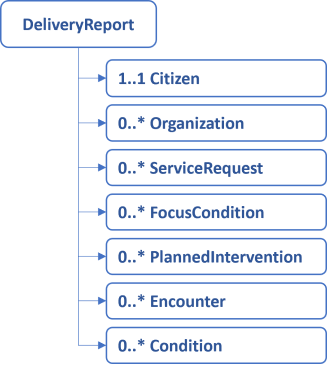
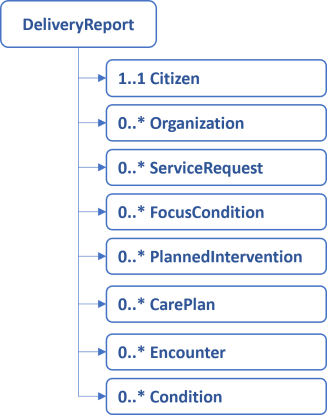
Main page corected. Details about date-precision, and criteria for new care plans added to documentation

Changed region(s): [[0.0, 0.03, 1.0, 1.0], [0.4587, 0.0, 0.4893, 0.03], [0.0, 0.0, 0.0306, 0.03]]

diff --git a/input/pagecontent/index.md b/input/pagecontent/index.md
@@ -57,12 +57,12 @@ This model holds a diagnosiscode, as it is reported to the municipality as part 
 ##### Attributes
 * A diagnosis code
 * A reference to the citizen
-* A FHIR status attribute
+* Two FHIR status attributes
 
 ##### Validation
 * One and only one diagnosis code exists and should be drawn from SKS or ICPC2
 * One and only one reference to the citizen exists
-* The FHIR status is mandatory and should be drawn from the appropriate standard FHIR-ValueSet 
+* One FHIR status is mandatory and should be drawn from the appropriate standard FHIR-ValueSet. The other not mandatory, but it is needed for reporting entered-in-error.
 
 ## PlannedIntervention
 This model holds information about prevention/health promotion interventions planned for a citizen.
@@ -74,22 +74,43 @@ This model holds information about prevention/health promotion interventions pla
 * A reference to the Citizen
 * A reference to the ServiceRequest, that started the intervention
 * The reason for the intervention expressed as a reference to Condition
-* References to the encounters associated with this intervention
-* An explaination for cancelling the intervention before its completion
-* A timing consisting of a count, duration and durationUnit to express the time granted to the intervention e.g. "8 times with a duration of 60min"
 * A reference to the organization that delivers the intervention
 * Three FHIR status attributes (status, intent, activity.detail.status)
+* A reference to the care plan that this planned intervention is part of
 
 ##### Validation
 * One and only one FSIII intervention code may be present and it should be drawn from valid §119 FSIII interventions as expressed by the ValueSet.
 * One and only one time for when the intervention was granted
 * The time where the intervention was stopped may be present
 * One and only one reference to the Citizen exists
-* One and only one reference to the ServiceRequest exists
+* A reference to the ServiceRequest may be present
 * A reference to one or more Conditions may exist, but are not required
-* References to completed encounters may exist. They are added as the intervention progresses.
-* One and only one explaination for cancelling the intervention before its completion shall exist if and oly if the status is 'cancelled' or 'stopped'. Else it is prohibited.
-* The timing shall exist for interventions that may be repeating such as 'Madlavning i praksis på hold'. For non-repeating interventions such as 'Afklarende samtale', the timing is prohibited.
+* One and only one reference to the organization that delivers the intervention exists
+* All FHIR statuses are mandatory. Each of them should be drawn from the appropriate standard FHIR-ValueSet.
+* The reference to the care plan is mandatory if the intervention is repeating such as 'Madlavning i praksis på hold'.
+
+## CarePlan
+The CarePlan is used whenever a prevention/health promotion care pathway is planned for a citizen in Danish municipalities. Care plan is a way to describe when a number of planned interventions are delivered together with a common schedule.
+
+##### Attributes
+* A category code, which can be either 'Opfølgningsforløb efter §119' or 
+'Interventionsforløb efter §119'
+* The time where the CarePlan was granted
+* The time where the CarePlan was stopped
+* A reference to the Citizen
+* An explaination for cancelling the CarePlan before its completion
+* A timing consisting of a count, duration and durationUnit to express the time granted to the intervention e.g. "8 times with a duration of 60min"
+* A reference to the organization that delivers the intervention
+* Three FHIR status attributes (status, intent, activity.detail.status)
+
+##### Validation
+* One and only one category code may be present and it should be drawn from the associated ValueSet.
+* One and only one time for when the care plan was granted
+* The time where the care plan was stopped may be present
+* One and only one reference to the Citizen exists
+* One and only one reference to the ServiceRequest exists
+* One and only one explaination for cancelling the care plan before its completion shall exist if and only if the status is 'cancelled' or 'stopped'. Else it is prohibited.
+* The timing shall exist for interventions, when the category-code is 'Interventionsforløb efter §119'
 * One and only one reference to the organization that delivers the intervention exists
 * All FHIR statuses are mandatory. Each of them should be drawn from the appropriate standard FHIR-ValueSet
 
@@ -102,6 +123,7 @@ Information about whenever a citizen meets the prevention/health promotion staff
 * The encounter start-time
 * The encounter end-time
 * A reference to the Citizen
+* A reference to the CarePlan that this encounter is a delivery of. 
 * A FHIR status attribute
 
 ##### Validation
@@ -110,6 +132,7 @@ Information about whenever a citizen meets the prevention/health promotion staff
 * One and only one encounter start-time exists
 * One encounter end-time may exist
 * One and only one reference to the Citizen exists
+* A reference to the CarePlan may exist
 * One and only one FHIR status exists, and should be drawn from the standard FHIR-ValueSet
 
 ## Condition

diff --git a/input/pagecontent/StructureDefinition-klgateway-119-focus-condition-intro.md b/input/pagecontent/StructureDefinition-klgateway-119-focus-condition-intro.md
@@ -1,5 +1,7 @@
 ### Scope and usage
-The  kl-gateway-119-focus-condition holds a diagnosiscode, as it is reported to the municipality in the request for prevention/health promotion from a Hospital or General practitioner using SKS (ICD10) or ICPC2. Be aware, that each 'whole meaning' should have its own instance of kl-gateway-119-focus-condition. A 'whole meaning' may be a single diagnosis code OR a diagnosis code with add-on-codes (tillægskoder) e.g. DK257+MN02BA01 means that a hospital patient has a chronic ulcer caused by the intake of acetylsalicylacid. They are a 'whole meaning' because the codes would loose their meaning if represented in two different focus-condition instanses. The code should be represented in Condition.code.
+The  kl-gateway-119-focus-condition holds a diagnosiscode, as it is reported to the municipality in the request for prevention/health promotion from a Hospital or General practitioner using SKS (ICD10) or ICPC2. Nothing else may be reported. This includes diagnoses written in free-text by Hospital, General practitioner or Municipallity staff, as well as codings made by municipality staff.
+
+Be aware, that each 'whole meaning' should have its own instance of kl-gateway-119-focus-condition. A 'whole meaning' may be a single diagnosis code OR a diagnosis code with add-on-codes (tillægskoder) e.g. DK257+MN02BA01 means that a hospital patient has a chronic ulcer caused by the intake of acetylsalicylacid. They are a 'whole meaning' because the codes would loose their meaning if represented in two different focus-condition instanses. The code should be represented in Condition.code.
 
 Condition.clinicalStatus should be populated with the value 'active' if the citizen has the condition, and 'inactive' if the citizen no longer has the condition. Condition.verificationStatus should be able to ditiguish between 'confirmed' and 'entered-in-error'. It is a good idea to always provide the verificationStatus. If not populated, the verificationStatus is assumed to be “confirmed”.
 

diff --git a/input/pagecontent/StructureDefinition-klgateway-119-planned-intervention-intro.md b/input/pagecontent/StructureDefinition-klgateway-119-planned-intervention-intro.md
@@ -3,7 +3,7 @@ The PlannedIntervention for §119 is used whenever a prevention/health promotion
 
 CarePlan.activity.detail.code.coding holds the intervention code, which has to come from FSIII. Some interventions can be delivered in a group or individually. The code should be chosen accordingly.
 
-It is important to distiguish correctly between the dates and times stated in the model. CarePlan.period.start is when the PlannedIntervention was authorized (bevillingstid). The planned end-date is CarePlan.period.end, unless the date has already occured and the status is 'completed', then it is the actual end-date. Notice that end-date is not madatory to report.
+It is important to distiguish correctly between the dates and times stated in the model. CarePlan.period.start is when the PlannedIntervention was authorized (bevillingstid). The planned end-date is CarePlan.period.end, unless the date has already occured and the status is 'completed', then it is the actual end-date. Notice that end-date is not madatory to report. All dates may be repported with or without time of day.
 
 CarePlan.status and CarePlan.intent are mandatory in the FHIR CarePlan resource. CarePlan.intent is always 'plan' in this implementation guide. CarePlan status should be either 'unknown', 'entered-in-error', or the status of the intervention at the time of reporting. Note that the meaning of 'active' is "ready to be acted upon", so it does not signify that the first activity has occured.
 

diff --git a/input/pagecontent/StructureDefinition-klgateway-119-care-plan-intro.md b/input/pagecontent/StructureDefinition-klgateway-119-care-plan-intro.md
@@ -30,6 +30,11 @@ It is premitted to use the code 'Aktivt fravalg' for reporting, but the more det
 
 CarePlan.subject references the citizen. CarePlan.activity.detail.performer is the organisation that carries out the intervention (leverandør).
 
+Different reasons for changing a CarePlan may exist, and here we provide guidance for how it should be reproted:
+* Errors should be corrected by reporting the same CarePlan again with the entered-in-error status. And reporting the correct one with a new Id.
+* If cancelled, set the CarePlan.activity.detail.status and CarePlan.activity.detail.statusreason and report the Careplan again with the same Id as used earlier.
+* If the timing is changing, it is most likely because a status has shown an new or extra added need of the citizen. Report this in a new CarePlan with a new start-date, rather than correcting the timing in the existing plan. This goes for PlannedInterventions that references the CarePlan as well. 
+
 ### Conversions between Danish information model and FHIR-profile
 
 Nedenstående tabel oversætter mellem de attributter der er defineret i den fælleskommunale informationsmodel (FKI), definerer kort den enkelte attribut på dansk og specificere hvilke af FHIR-profilens atributter der skal bruges til specifikation af indholdet

diff --git a/input/pagecontent/StructureDefinition-klgateway-119-servicerequest-intro.md b/input/pagecontent/StructureDefinition-klgateway-119-servicerequest-intro.md
@@ -5,7 +5,7 @@ The ServiceRequest, may have the sending organisation as the requester i.e the h
  
 Intent should always be "plan". The status attribute should be used according to the FHIR-guidance. The citizen is referred in ServiceRequest.subject.
 
-ServiceRequest.authoredOn holds the time, where the request was recieved in the municipality, if this is available. Else, the time that the request was send from the hosptal may be used.
+ServiceRequest.authoredOn holds the time, where the request was recieved in the municipality, if this is available. Else, the time that the request was send from the hosptal may be used. The date may be repported with or without time of day.
 
 ServiceRequest.status and ServiceRequest.intent are mandatory. ServiceRequest.intent always have the value 'plan'. ServiceRequest.status uses the required FHIR ValueSet as appropriate.
 

diff --git a/input/pagecontent/StructureDefinition-klgateway-119-encounter-intro.md b/input/pagecontent/StructureDefinition-klgateway-119-encounter-intro.md
@@ -14,7 +14,7 @@ Encounters may be related to the ServiceRequest (request for prevention/health p
 
 Encounters can also be related to the CarePlan on which they are a delivery. Use Encounter.extension[basedOnCarePlan].
 
-The time of the encounter is documented in Encounter.period.start, and it is mandatory. The endtime is not mandatory.
+The time of the encounter is documented in Encounter.period.start, and it is mandatory. The endtime is not mandatory. All dates may be repported with or without time of day.
 
 Encounter.subject relates to the citizen that the encounter is about.
 
